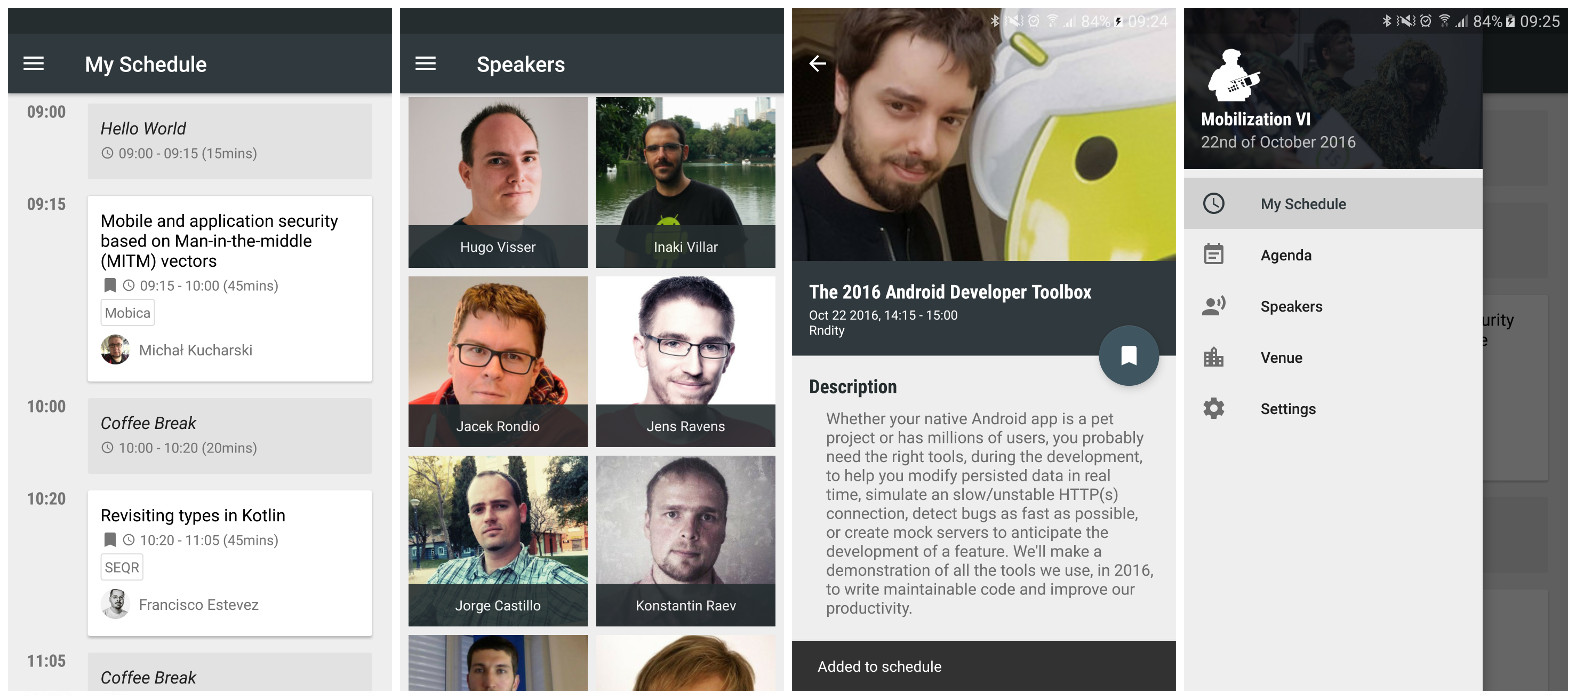
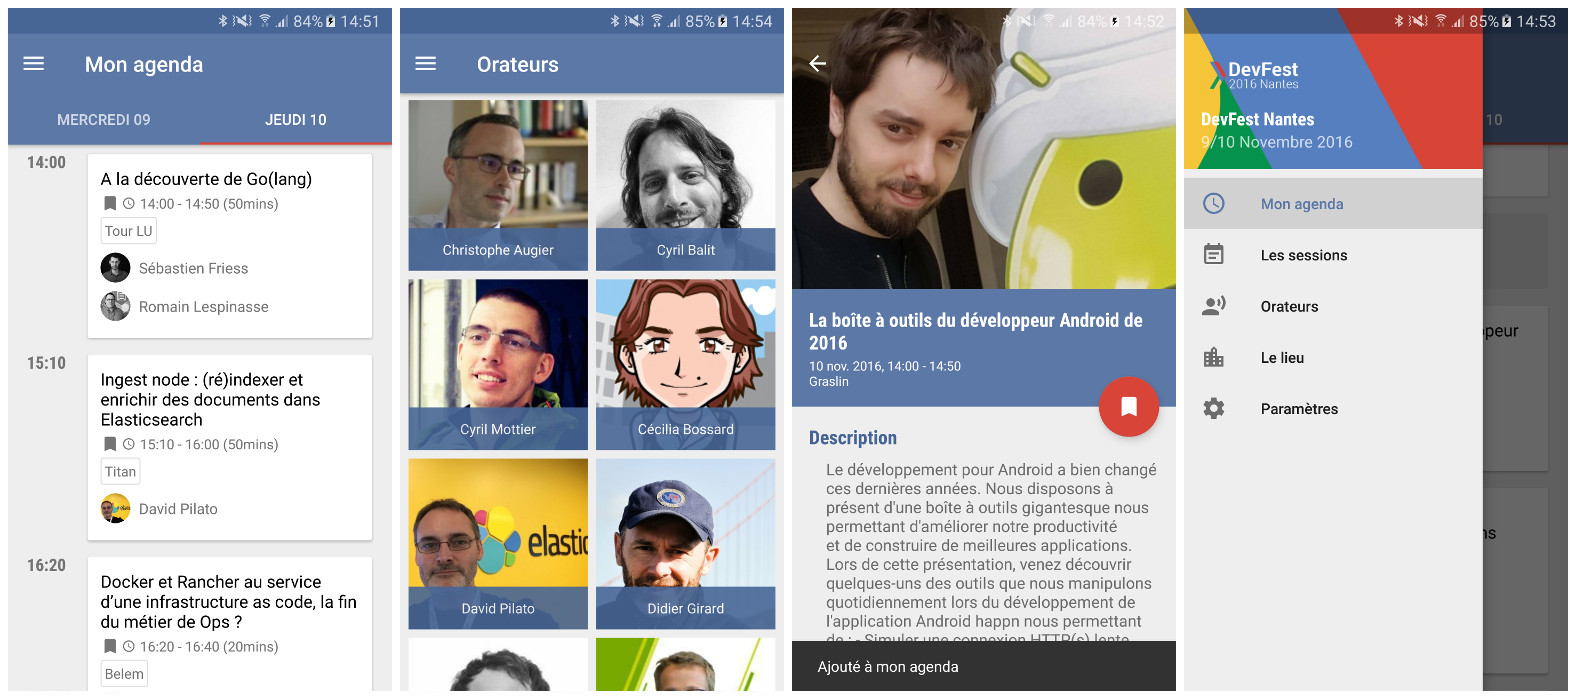
Update app screenshots

diff --git a/README.md b/README.md
@@ -62,7 +62,7 @@ See the License for the specific language governing permissions and
 limitations under the License.
 ```
 
-[Android screenshots]: https://raw.githubusercontent.com/Nilhcem/mobilization-2016/master/assets/screenshots/screenshots.jpg
+[Android screenshots]: https://raw.githubusercontent.com/Nilhcem/devfestnantes-2016/master/assets/screenshots/screenshots.jpg
 [droidcon PL 2015 mobile app]: https://github.com/droidconpl/droidcon-2015-mobile-app
 [Google I/O app]: https://github.com/google/iosched
 [DroidKaigi 2016 app]: https://github.com/konifar/droidkaigi2016/
